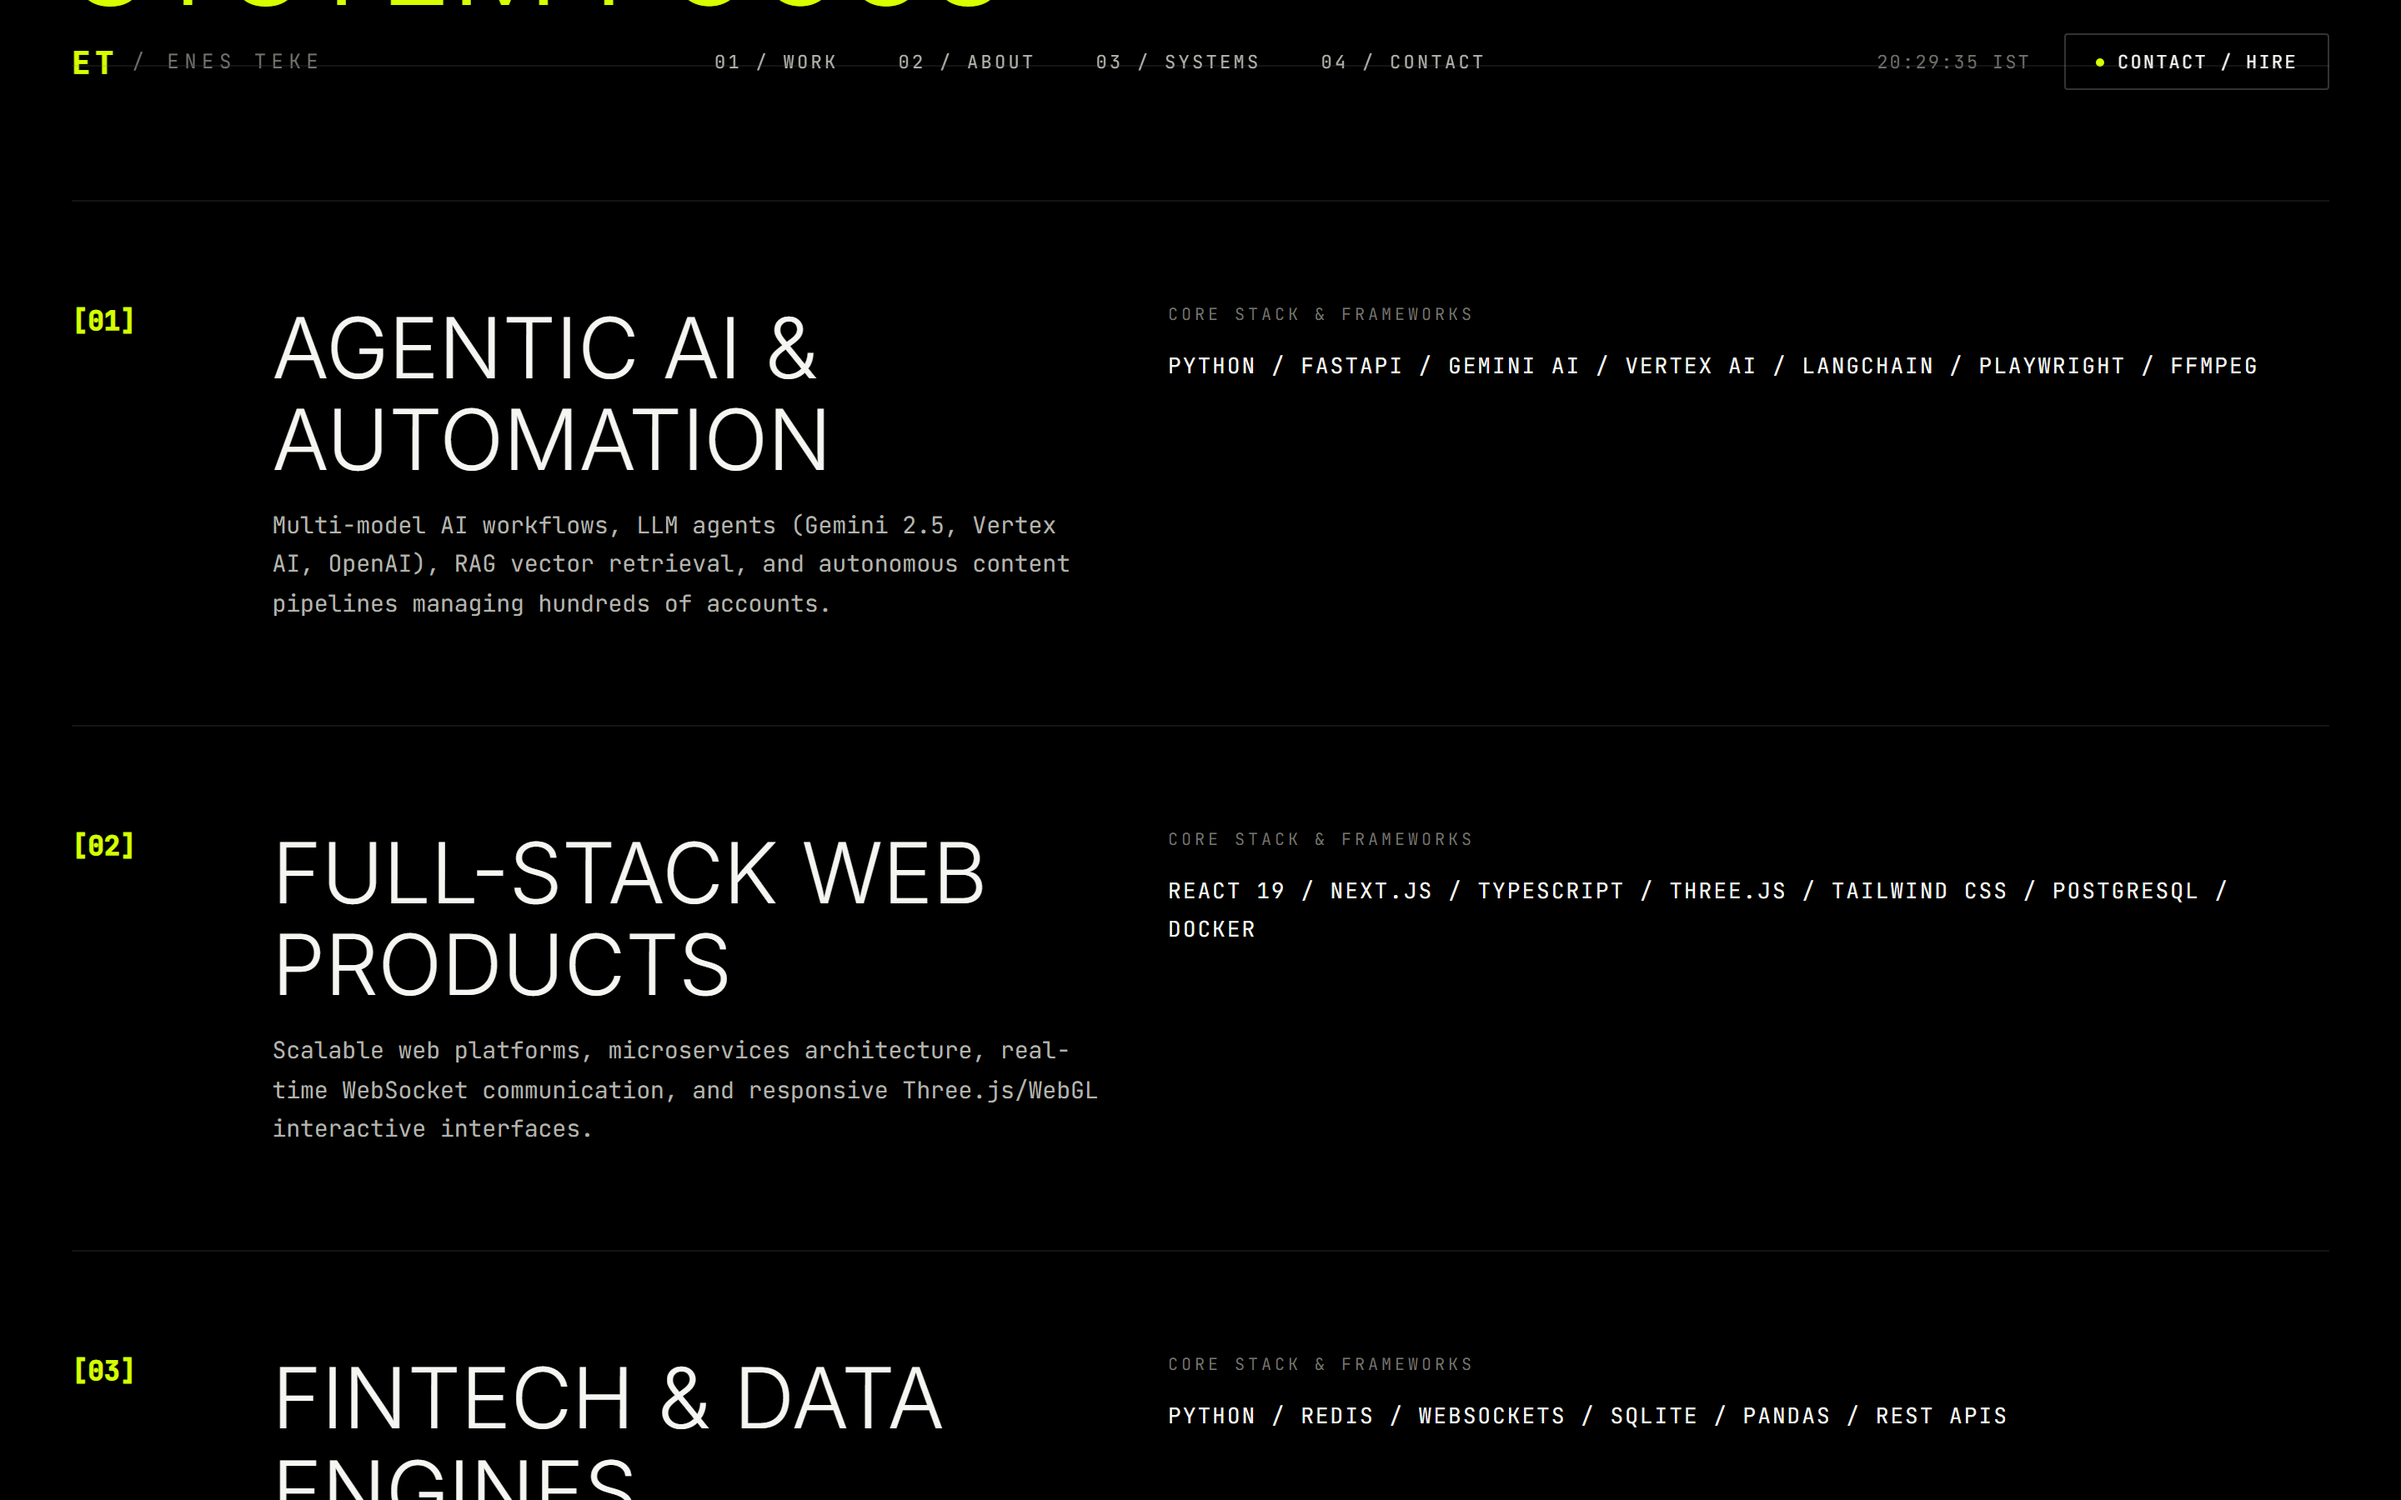
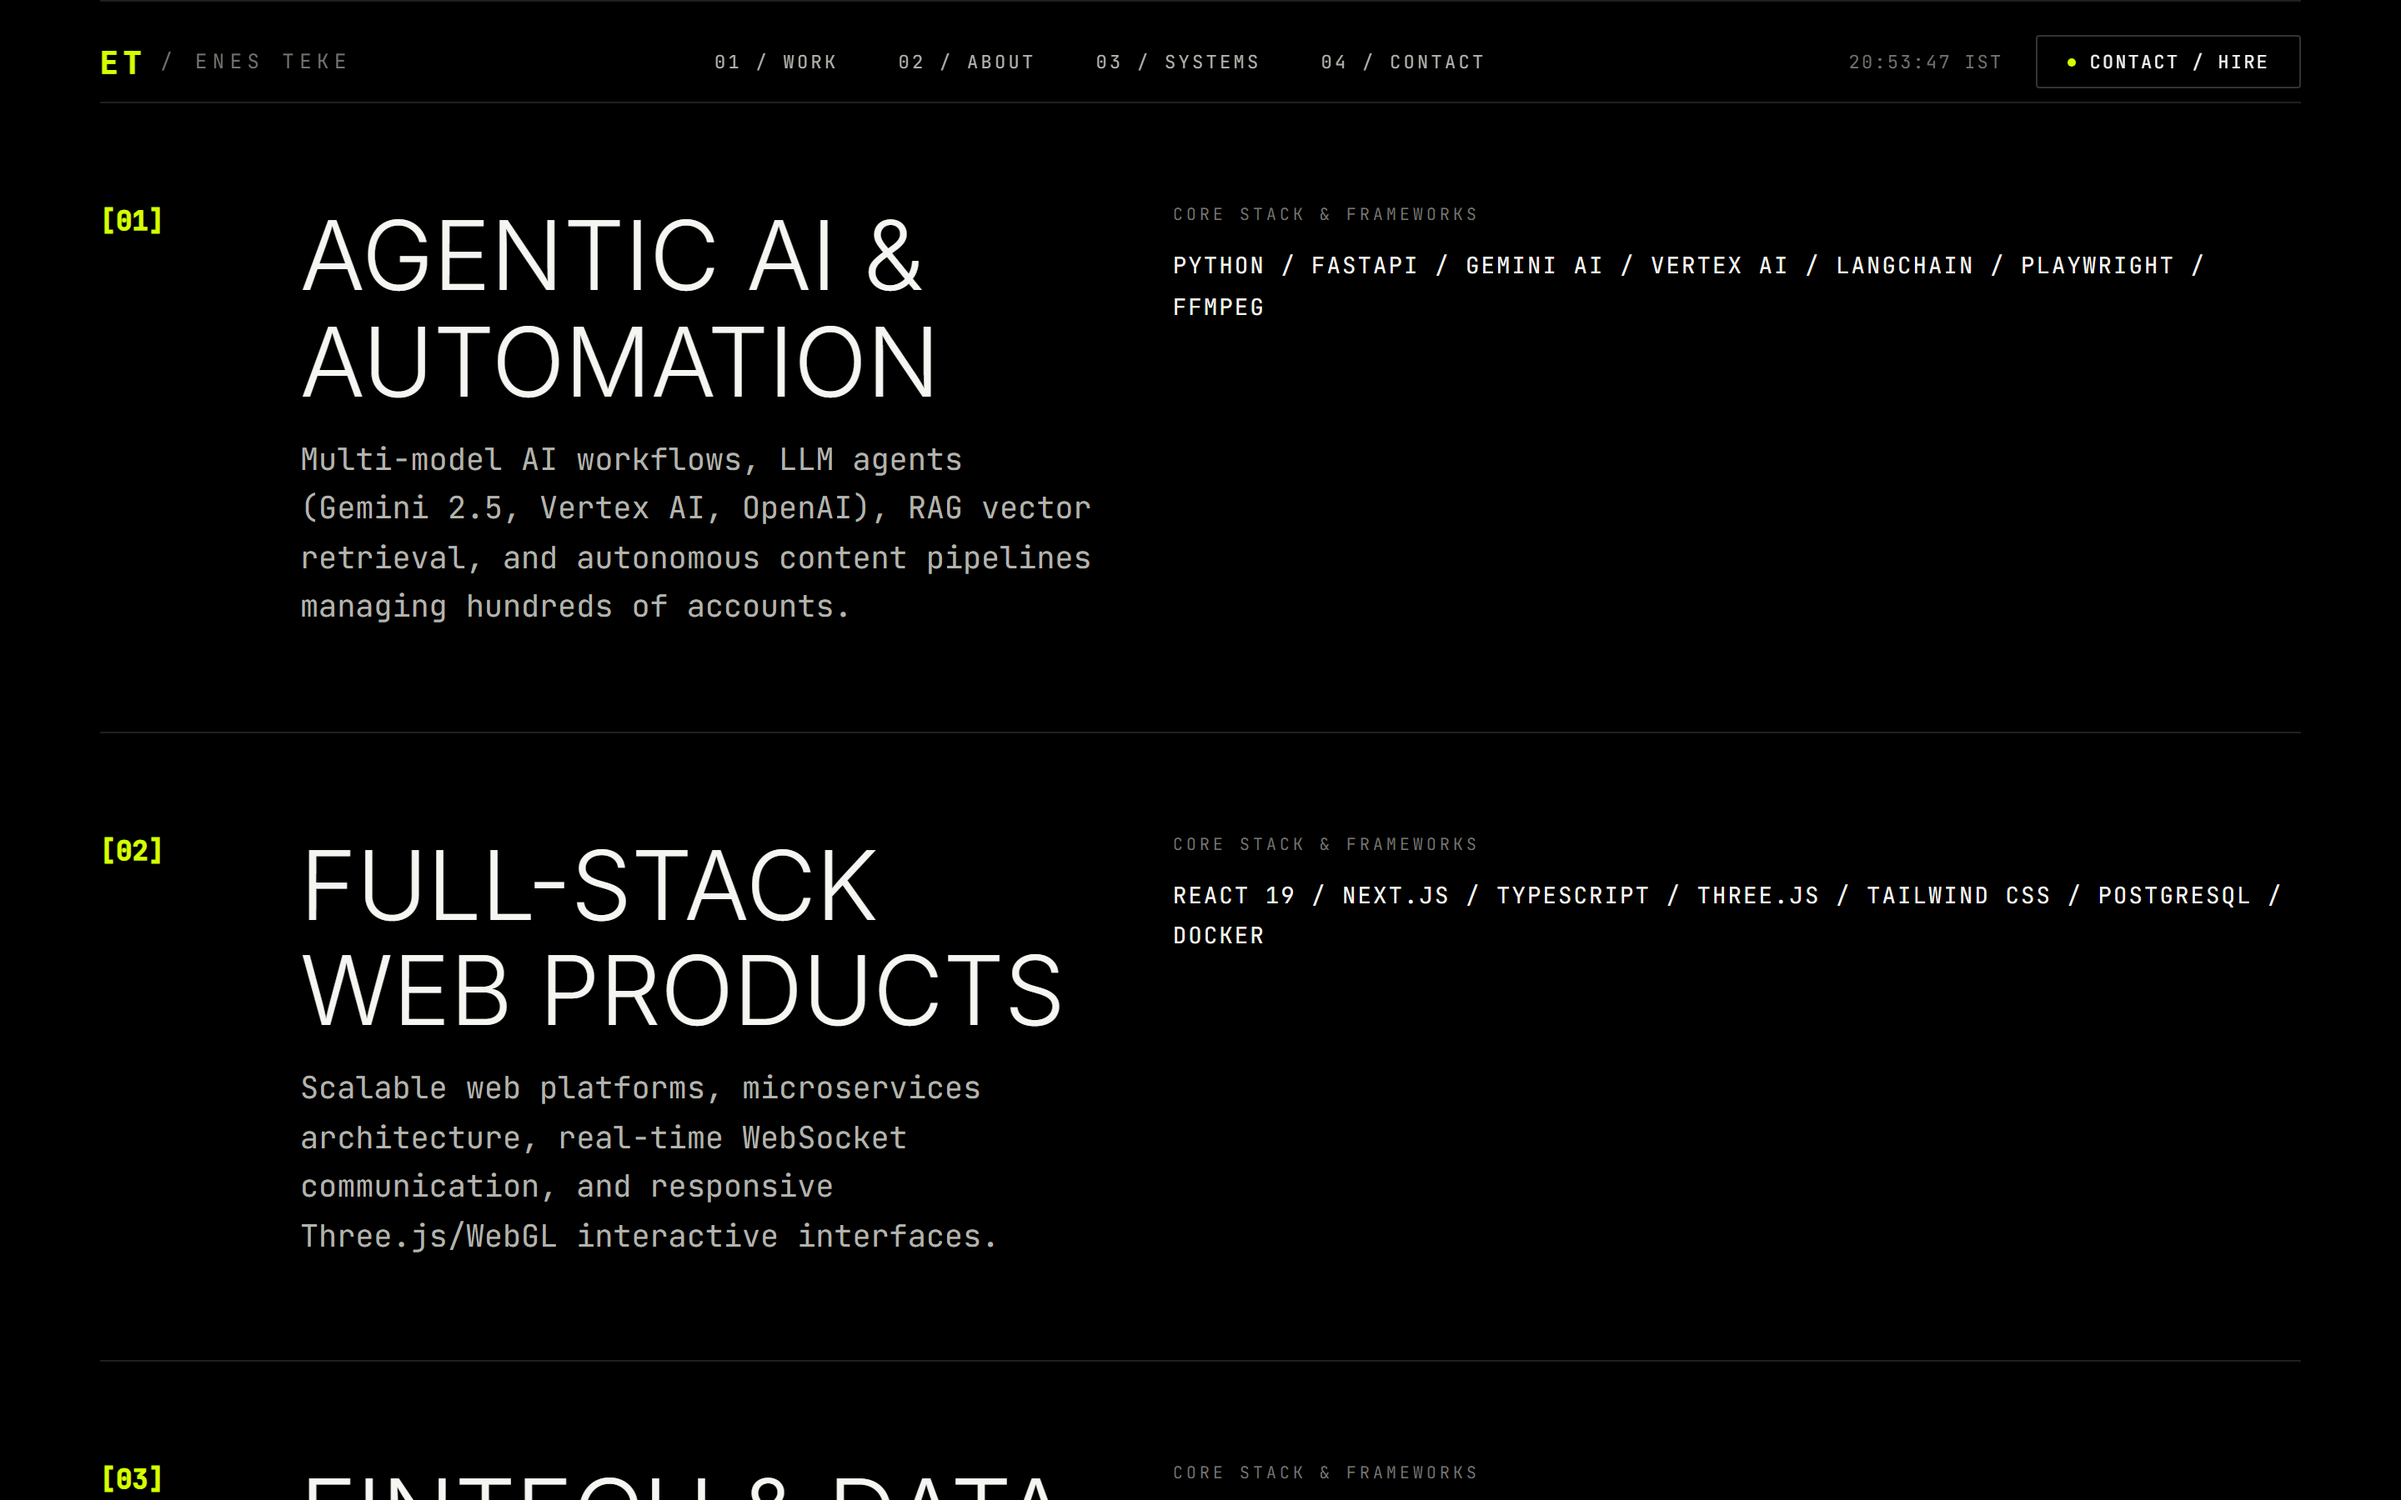
fix: finalize hero contrast and mobile section framing

diff --git a/src/sections/ManifestoSection.tsx b/src/sections/ManifestoSection.tsx
@@ -34,8 +34,8 @@ export default function ManifestoSection() {
   }, []);
 
   const line1Opacity = isReducedMotion ? 1 : Math.min(1, scrollProgress * 2.5);
-  const line2Opacity = isReducedMotion ? 1 : Math.max(0.2, Math.min(1, (scrollProgress - 0.25) * 2.5));
-  const line3Opacity = isReducedMotion ? 1 : Math.max(0.2, Math.min(1, (scrollProgress - 0.5) * 2.5));
+  const line2Opacity = isReducedMotion ? 0.75 : Math.max(0.3, Math.min(1, (scrollProgress - 0.2) * 2.5));
+  const line3Opacity = isReducedMotion ? 0.75 : Math.max(0.2, Math.min(1, (scrollProgress - 0.4) * 2.5));
 
   return (
     <section
@@ -45,17 +45,17 @@ export default function ManifestoSection() {
         position: 'relative',
         zIndex: 2,
         backgroundColor: '#000000',
-        minHeight: isReducedMotion ? 'auto' : 'clamp(105svh, 115svh, 130svh)',
+        minHeight: isReducedMotion ? 'auto' : 'clamp(105svh, 115svh, 125svh)',
         display: 'flex',
         flexDirection: 'column',
         justifyContent: 'center',
-        padding: 'calc(var(--header-height) + 40px) var(--page-padding) 80px',
+        padding: 'calc(var(--header-height) + 40px) var(--page-padding) 60px',
         fontFamily: "var(--font-family-mono)",
         scrollMarginTop: 'calc(var(--header-height) + 24px)',
       }}
     >
       <div style={{ maxWidth: '1200px', margin: '0 auto', width: '100%' }}>
-        <div style={{ fontSize: '11px', letterSpacing: '0.25em', color: '#73736e', marginBottom: '32px', textTransform: 'uppercase' }}>
+        <div style={{ fontSize: '11px', letterSpacing: '0.25em', color: '#73736e', marginBottom: '24px', textTransform: 'uppercase' }}>
           ENGINEERING PRINCIPLES & MANIFESTO
         </div>
 
@@ -67,7 +67,7 @@ export default function ManifestoSection() {
               fontWeight: 300,
               lineHeight: 1.02,
               letterSpacing: '-0.03em',
-              color: `rgba(245, 245, 242, ${0.2 + line1Opacity * 0.8})`,
+              color: `rgba(245, 245, 242, ${0.3 + line1Opacity * 0.7})`,
               margin: 0,
               textTransform: 'uppercase',
               transition: isReducedMotion ? 'none' : 'color 0.3s ease',
@@ -84,7 +84,7 @@ export default function ManifestoSection() {
               fontWeight: 300,
               lineHeight: 1.02,
               letterSpacing: '-0.03em',
-              color: `rgba(245, 245, 242, ${0.2 + line2Opacity * 0.8})`,
+              color: `rgba(245, 245, 242, ${0.3 + line2Opacity * 0.7})`,
               margin: 0,
               textTransform: 'uppercase',
               transition: isReducedMotion ? 'none' : 'color 0.3s ease',
@@ -100,7 +100,7 @@ export default function ManifestoSection() {
               fontWeight: 300,
               lineHeight: 1.02,
               letterSpacing: '-0.03em',
-              color: isReducedMotion || line3Opacity > 0.6 ? '#d7ff00' : 'rgba(245, 245, 242, 0.3)',
+              color: isReducedMotion || line3Opacity > 0.6 ? '#d7ff00' : 'rgba(245, 245, 242, 0.4)',
               margin: 0,
               textTransform: 'uppercase',
               transition: isReducedMotion ? 'none' : 'color 0.3s ease',

diff --git a/src/components/scene/ETMonogramScene.tsx b/src/components/scene/ETMonogramScene.tsx
@@ -233,34 +233,44 @@ export default function ETMonogramScene({
     canvasEl.addEventListener('webglcontextlost', handleContextLost);
     canvasEl.addEventListener('webglcontextrestored', handleContextRestored);
 
+    renderer = new THREE.WebGLRenderer({
+      canvas: canvasEl,
+      antialias: true,
+      powerPreference: 'high-performance',
+      alpha: true,
+    });
+    renderer.setPixelRatio(Math.min(window.devicePixelRatio, 2));
+    renderer.setSize(width, height);
+    renderer.setClearColor(0x000000, 1);
+
     const renderTarget = new THREE.WebGLRenderTarget(width, height, {
-      format: THREE.RGBAFormat,
-      type: THREE.FloatType,
       minFilter: THREE.LinearFilter,
       magFilter: THREE.LinearFilter,
+      format: THREE.RGBAFormat,
     });
 
-    const bgScene = new THREE.Scene();
     const bgCamera = new THREE.OrthographicCamera(-1, 1, 1, -1, 0, 1);
+    const bgScene = new THREE.Scene();
     const bgGeometry = new THREE.PlaneGeometry(2, 2);
+
     const bgMaterial = new THREE.ShaderMaterial({
       vertexShader: bgVertexShader,
       fragmentShader: bgFragmentShader,
       uniforms: {
-        uTime: { value: 0 },
-        uScreenAspectRatio: { value: width / height },
         uMouse: { value: new THREE.Vector2(0, 0) },
+        uTime: { value: 0 },
         uNoiseScale: { value: noiseScale },
-        uBgContrast: { value: 1.0 },
+        uScreenAspectRatio: { value: width / height },
+        uBgContrast: { value: 0.12 },
       },
       depthWrite: false,
     });
     bgMaterialRef.current = bgMaterial;
     bgScene.add(new THREE.Mesh(bgGeometry, bgMaterial));
 
+    const camera = new THREE.PerspectiveCamera(45, width / height, 0.1, 1000);
+    camera.position.z = 18;
     const scene = new THREE.Scene();
-    const camera = new THREE.PerspectiveCamera(40, width / height, 0.1, 1000);
-    camera.position.set(0, 0, 15);
 
     const shape = new THREE.Shape();
     shape.moveTo(-3.0, 4.0);
@@ -300,7 +310,7 @@ export default function ETMonogramScene({
       color: 0xd7ff00,
       wireframe: true,
       transparent: true,
-      opacity: 0.10,
+      opacity: isMobile ? 0.03 : 0.06,
     });
     const outlineMesh = new THREE.Mesh(geometry, outlineMaterial);
 

diff --git a/src/sections/WorksSection.module.css b/src/sections/WorksSection.module.css
@@ -12,11 +12,11 @@
 }
 
 .projectScene {
-  min-height: clamp(320px, 50vw, 720px);
+  min-height: clamp(400px, 60vw, 820px);
   display: flex;
   flex-direction: column;
   justify-content: space-between;
-  padding: clamp(60px, 12vw, 100px) 0 60px;
+  padding: clamp(60px, 10vw, 100px) 0 60px;
   border-top: 1px solid var(--line-secondary);
   position: relative;
   scroll-margin-top: calc(var(--header-height) + 24px);
@@ -24,14 +24,14 @@
 
 .gridNormal {
   display: grid;
-  grid-template-columns: 1fr minmax(360px, 48vw);
+  grid-template-columns: 1fr min(50vw, 760px);
   gap: clamp(32px, 5vw, 80px);
   align-items: center;
 }
 
 .gridReverse {
   display: grid;
-  grid-template-columns: minmax(360px, 48vw) 1fr;
+  grid-template-columns: min(50vw, 760px) 1fr;
   gap: clamp(32px, 5vw, 80px);
   align-items: center;
 }
@@ -43,7 +43,7 @@
 
 .projectTitle {
   font-family: var(--font-family-sans);
-  font-size: clamp(3.2rem, 6.5vw, 7.5rem);
+  font-size: clamp(3.5rem, 7vw, 9rem);
   font-weight: 300;
   line-height: 0.92;
   letter-spacing: -0.04em;
@@ -56,7 +56,7 @@
   background-color: rgba(255, 255, 255, 0.02);
   border: 1px solid rgba(255, 255, 255, 0.08);
   padding: clamp(24px, 4vw, 40px);
-  min-height: 280px;
+  min-height: clamp(320px, 35vw, 480px);
   display: flex;
   flex-direction: column;
   justify-content: space-between;
@@ -76,6 +76,26 @@
   text-decoration: none;
   min-height: 44px;
   transition: all 0.2s ease;
+}
+
+.pipelineFlow {
+  display: flex;
+  align-items: center;
+  justify-content: space-between;
+  margin: 20px 0;
+  font-size: 11px;
+  color: #f5f5f2;
+}
+
+.pipelineStep {
+  border: 1px solid rgba(255, 255, 255, 0.2);
+  padding: 6px 12px;
+}
+
+.pipelineActive {
+  border: 1px solid #d7ff00;
+  padding: 6px 12px;
+  color: #d7ff00;
 }
 
 @media (max-width: 900px) {
@@ -109,5 +129,13 @@
     min-height: 200px;
     padding: 20px;
     margin-top: 16px;
+  }
+}
+
+@media (max-width: 600px) {
+  .pipelineFlow {
+    flex-direction: column;
+    gap: 12px;
+    align-items: flex-start;
   }
 }

diff --git a/src/sections/WorksSection.tsx b/src/sections/WorksSection.tsx
@@ -41,7 +41,11 @@ export default function WorksSection() {
             const isEven = index % 2 === 0;
 
             return (
-              <div key={project.id} className={styles.projectScene}>
+              <div
+                key={project.id}
+                data-project-slug={project.slug}
+                className={styles.projectScene}
+              >
                 {/* Top Metadata */}
                 <div style={{ display: 'flex', justifyContent: 'space-between', alignItems: 'center', marginBottom: '24px' }}>
                   <span style={{ fontSize: '12px', color: '#73736e', letterSpacing: '0.2em' }}>
@@ -97,10 +101,10 @@ export default function WorksSection() {
                         <div style={{ fontSize: '10px', color: '#73736e', letterSpacing: '0.15em' }}>
                           // EDITORIAL DNA PIPELINE FLOW
                         </div>
-                        <div style={{ display: 'flex', alignItems: 'center', justifyContent: 'space-between', margin: '20px 0', fontSize: '11px', color: '#f5f5f2' }}>
-                          <span style={{ border: '1px solid rgba(255,255,255,0.2)', padding: '6px 12px' }}>WEBSITE URL</span>
+                        <div className={styles.pipelineFlow}>
+                          <span className={styles.pipelineStep}>WEBSITE URL</span>
                           <span style={{ color: '#d7ff00' }}>➔ VECTOR RAG ➔</span>
-                          <span style={{ border: '1px solid #d7ff00', padding: '6px 12px', color: '#d7ff00' }}>EDITORIAL DNA</span>
+                          <span className={styles.pipelineActive}>EDITORIAL DNA</span>
                         </div>
                         <div style={{ fontSize: '10px', color: '#73736e' }}>
                           SAAS PLATFORM: HAREKI.COM

diff --git a/src/sections/HeroSection.module.css b/src/sections/HeroSection.module.css
@@ -9,7 +9,7 @@
   font-family: var(--font-family-mono);
   color: #f5f5f2;
   pointer-events: none;
-  background: linear-gradient(180deg, rgba(0,0,0,0.85) 0%, rgba(0,0,0,0.4) 60%, rgba(0,0,0,0.9) 100%);
+  background-color: #000000;
 }
 
 .controlsTrigger {
@@ -24,20 +24,20 @@
   letter-spacing: -0.045em;
   color: #f5f5f2;
   text-transform: uppercase;
-  margin-bottom: 28px;
+  margin-bottom: 24px;
 }
 
 .heroBio {
-  font-size: clamp(14px, 4vw, 16px);
-  color: #b3b3ad;
-  max-width: 36ch;
-  line-height: 1.65;
+  font-size: clamp(0.98rem, 4.3vw, 1.1rem);
+  color: rgba(245, 245, 242, 0.85);
+  max-width: 32ch;
+  line-height: 1.55;
 }
 
 .heroCtaGroup {
   display: flex;
   gap: 28px;
-  margin-top: 36px;
+  margin-top: 32px;
   align-items: center;
   flex-wrap: wrap;
 }
@@ -75,7 +75,7 @@
   }
 
   .hero {
-    padding-top: calc(var(--header-height) + 24px);
+    padding-top: calc(var(--header-height) + 20px);
     min-height: calc(100vh - var(--header-height));
   }
 }

diff --git a/src/sections/CapabilitiesSection.tsx b/src/sections/CapabilitiesSection.tsx
@@ -19,8 +19,12 @@ export default function CapabilitiesSection() {
 
         {/* Responsive Typographic Rows */}
         <div style={{ display: 'flex', flexDirection: 'column' }}>
-          {capabilities.map((cap) => (
-            <div key={cap.number} className={styles.capRow}>
+          {capabilities.map((cap, idx) => (
+            <div
+              key={cap.number}
+              data-capability-index={idx === 0 ? '01' : cap.number}
+              className={styles.capRow}
+            >
               {/* Number */}
               <div style={{ fontSize: '16px', color: '#d7ff00', fontWeight: 600 }}>
                 [{cap.number}]

diff --git a/src/sections/HeroSection.tsx b/src/sections/HeroSection.tsx
@@ -87,10 +87,10 @@ export default function HeroSection({
         </div>
         <h1 className={styles.heroTitle}>
           ENGINEERING SYSTEMS <br />
-          <span style={{ color: '#d7ff00', fontWeight: 400 }}>THAT THINK & SCALE.</span>
+          THAT <span style={{ color: '#d7ff00' }}>THINK</span> & SCALE.
         </h1>
         <p className={styles.heroBio}>
-          {profile.bio}
+          Full-stack developer and AI engineer building production systems across agentic AI, computer vision and real-time data.
         </p>
 
         {/* Refined Minimal Text Links (44px touch targets) */}

diff --git a/src/components/layout/Navbar.module.css b/src/components/layout/Navbar.module.css
@@ -10,7 +10,7 @@
   align-items: center;
   z-index: 9999;
   font-family: var(--font-family-mono);
-  background-color: rgba(0, 0, 0, 0.92);
+  background-color: rgba(0, 0, 0, 0.95);
   backdrop-filter: blur(10px);
   border-bottom: 1px solid rgba(255, 255, 255, 0.1);
   mix-blend-mode: normal;
@@ -64,8 +64,8 @@
 
 .mobileMenuTrigger {
   display: none;
-  background: none;
-  border: 1px solid #d7ff00;
+  background: transparent;
+  border: 1px solid rgba(215, 255, 0, 0.45);
   color: #d7ff00;
   font-family: var(--font-family-mono);
   font-size: 11px;
